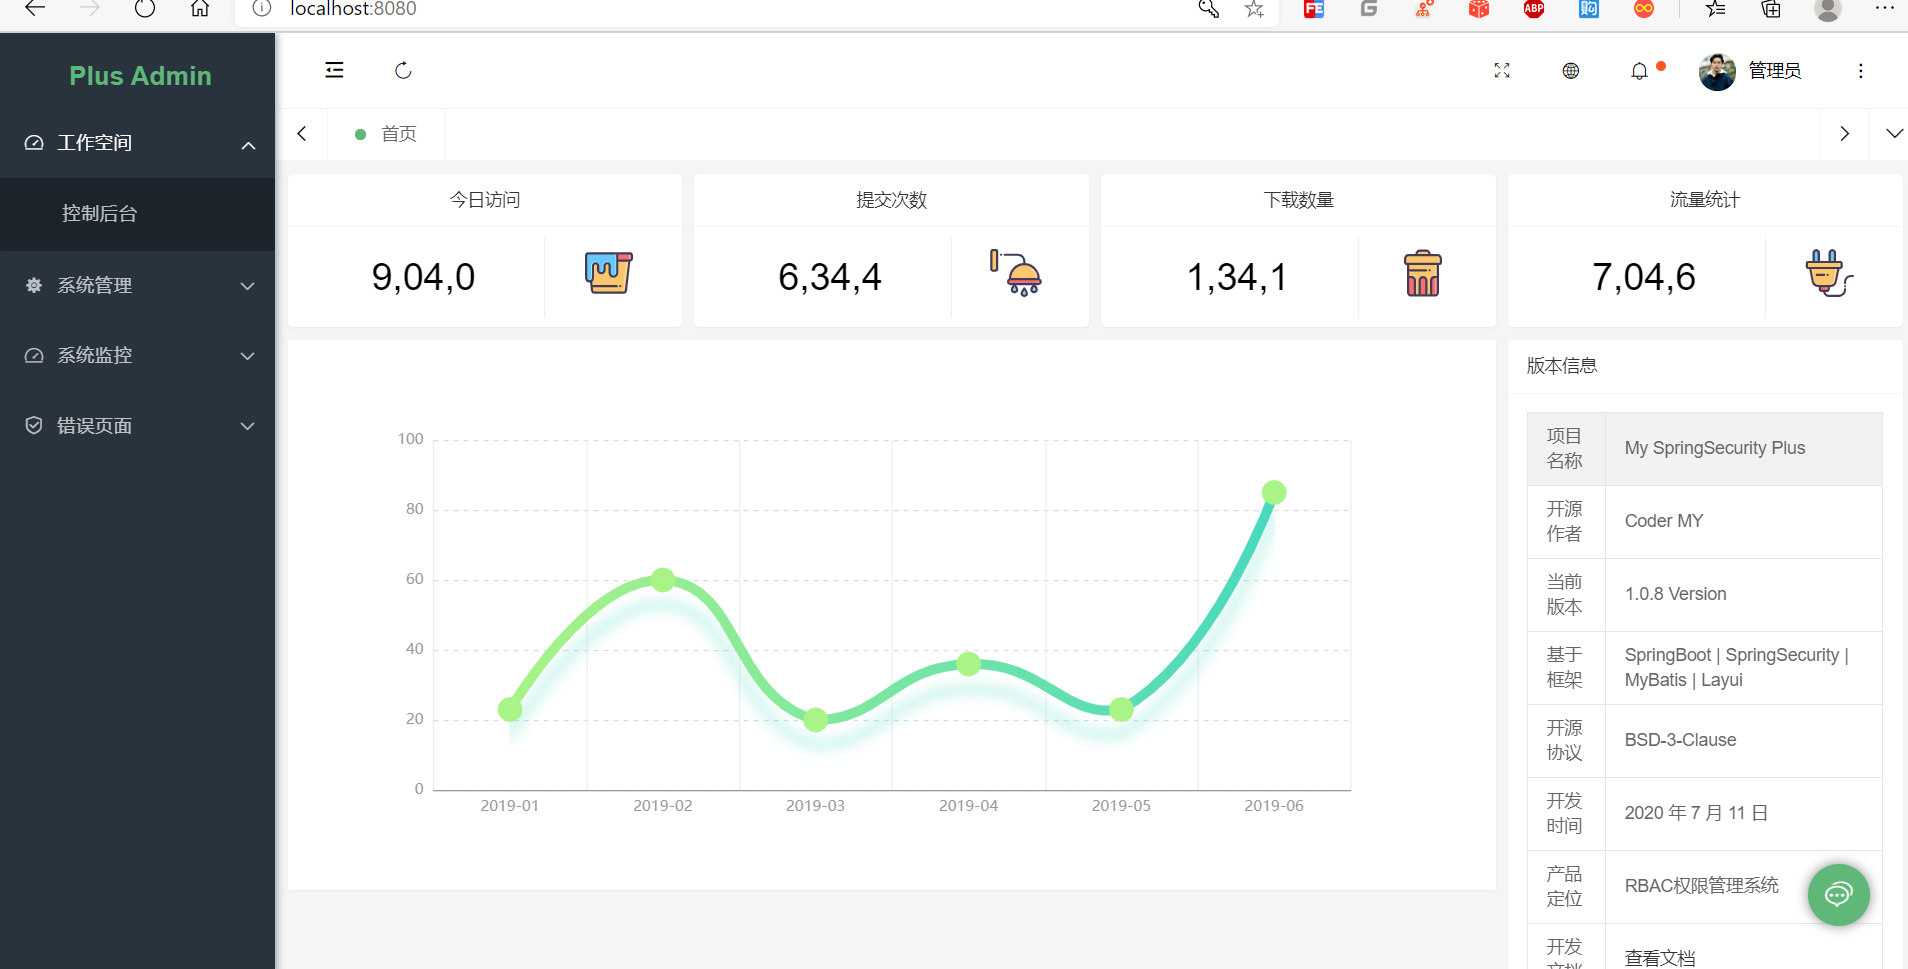
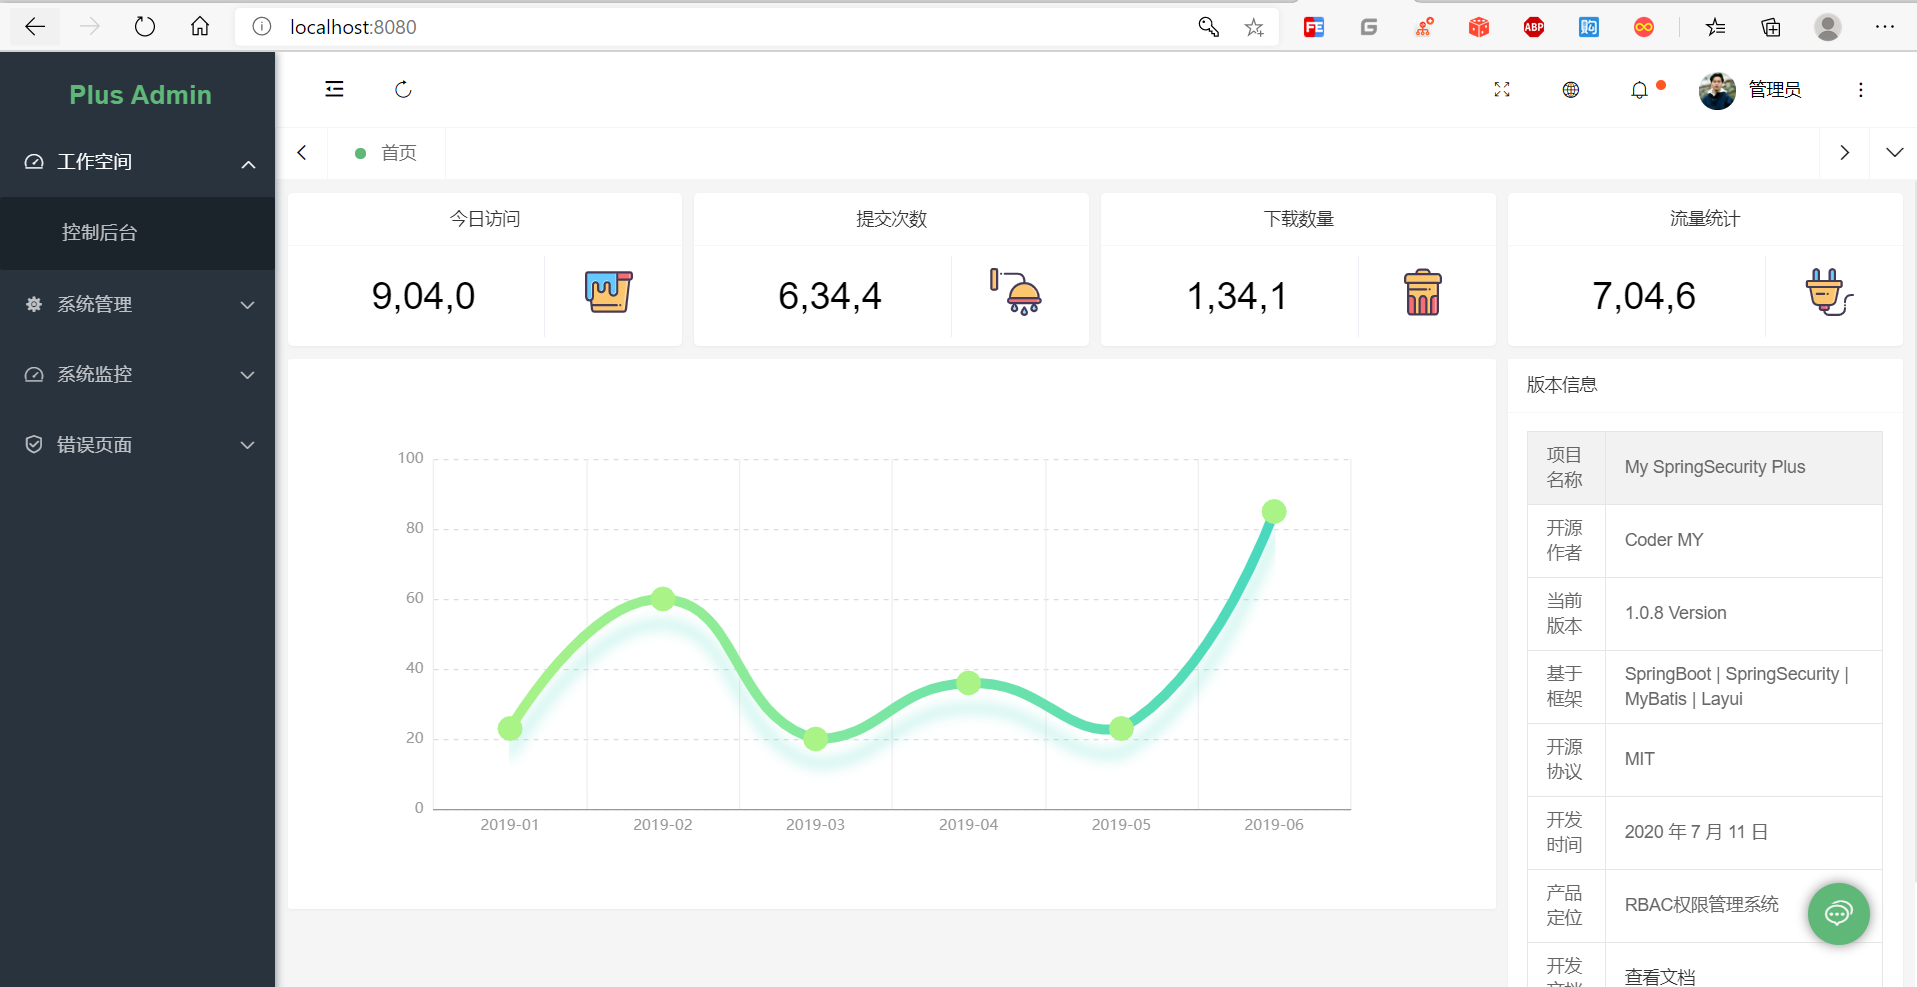
8.13 优化代码格式

diff --git a/src/main/resources/templates/console/console1.html b/src/main/resources/templates/console/console1.html
@@ -111,7 +111,7 @@
 								</tr>
 								<tr>
 									<td>开源协议</td>
-									<td>BSD-3-Clause</td>
+									<td>MIT</td>
 								</tr>
 								<tr>
 									<td>开发时间</td>

diff --git a/src/main/java/com/codermy/myspringsecurityplus/controller/MenuController.java b/src/main/java/com/codermy/myspringsecurityplus/controller/MenuController.java
@@ -41,9 +41,6 @@ public class MenuController {
     @PreAuthorize("hasAnyAuthority('menu:list')")
     @MyLog("查询菜单")
     public Result getMenuAll(String queryName,Integer queryType){
-        // if (0 == 0){
-        //     throw new MyException(1111,"测试异常");
-        // }
         return Result.ok().data(menuService.getMenuAll(queryName,queryType)).code(ResultCode.TABLE_SUCCESS);
     }
 
